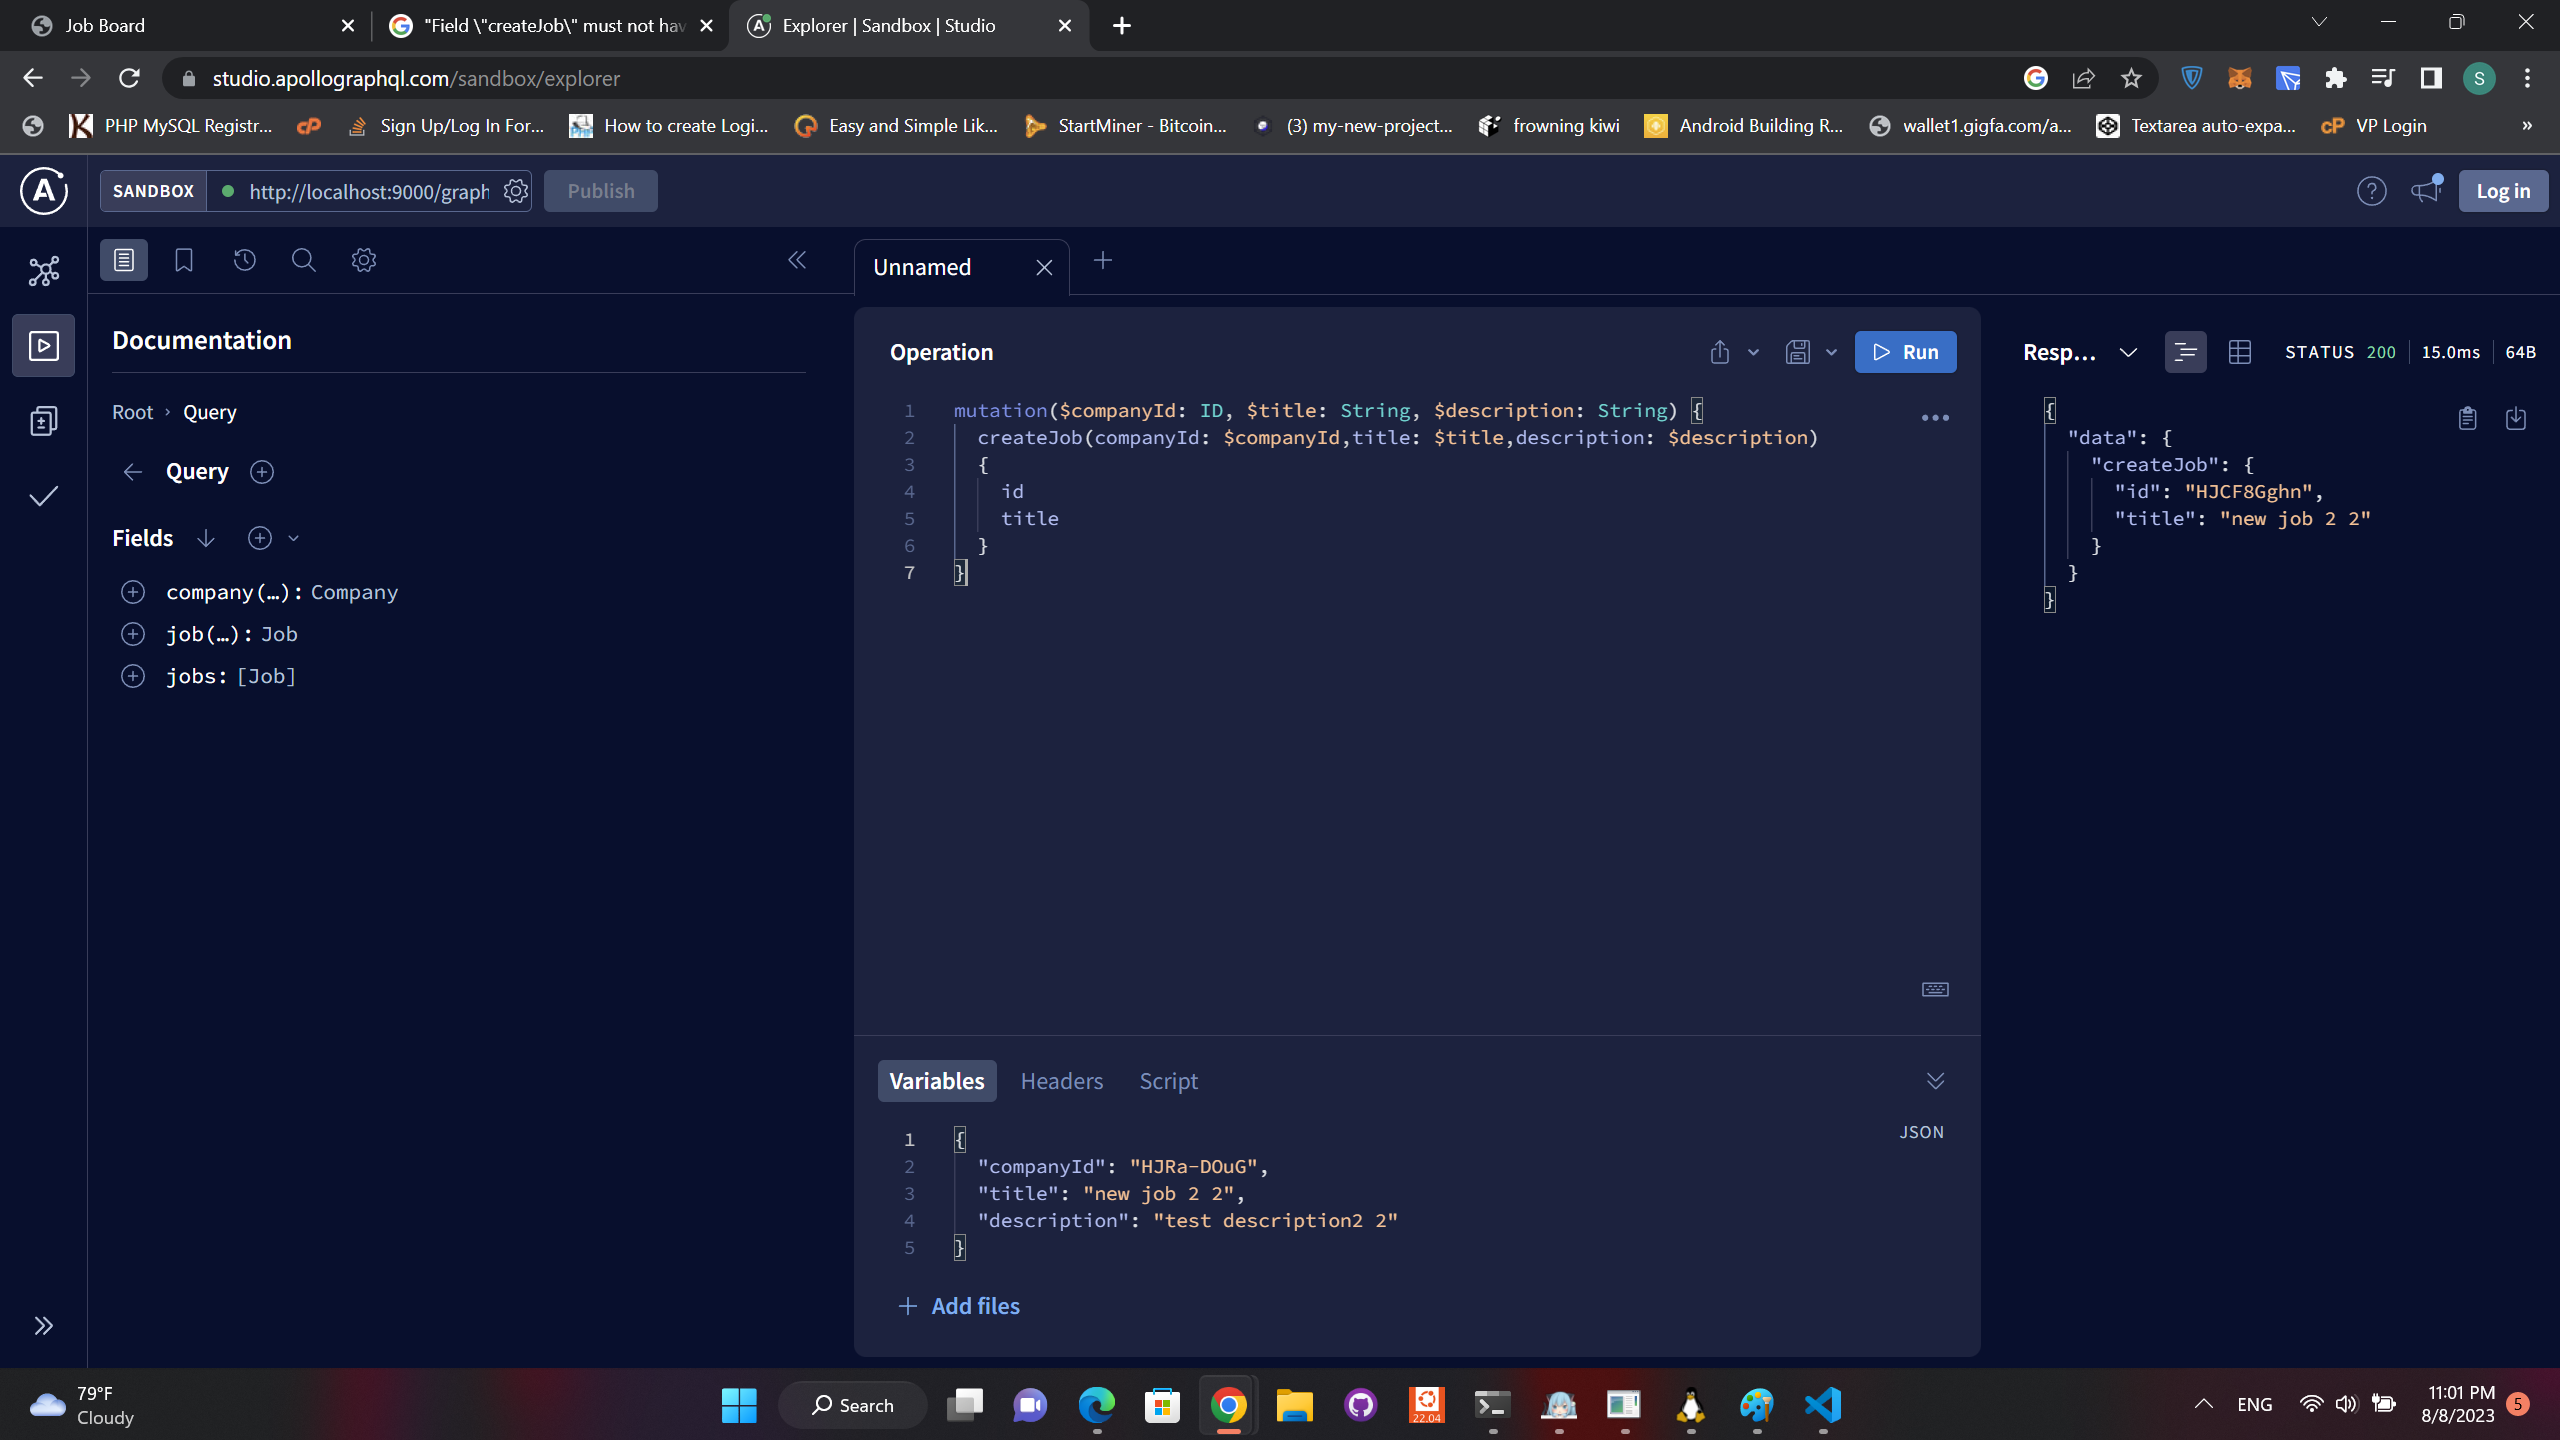
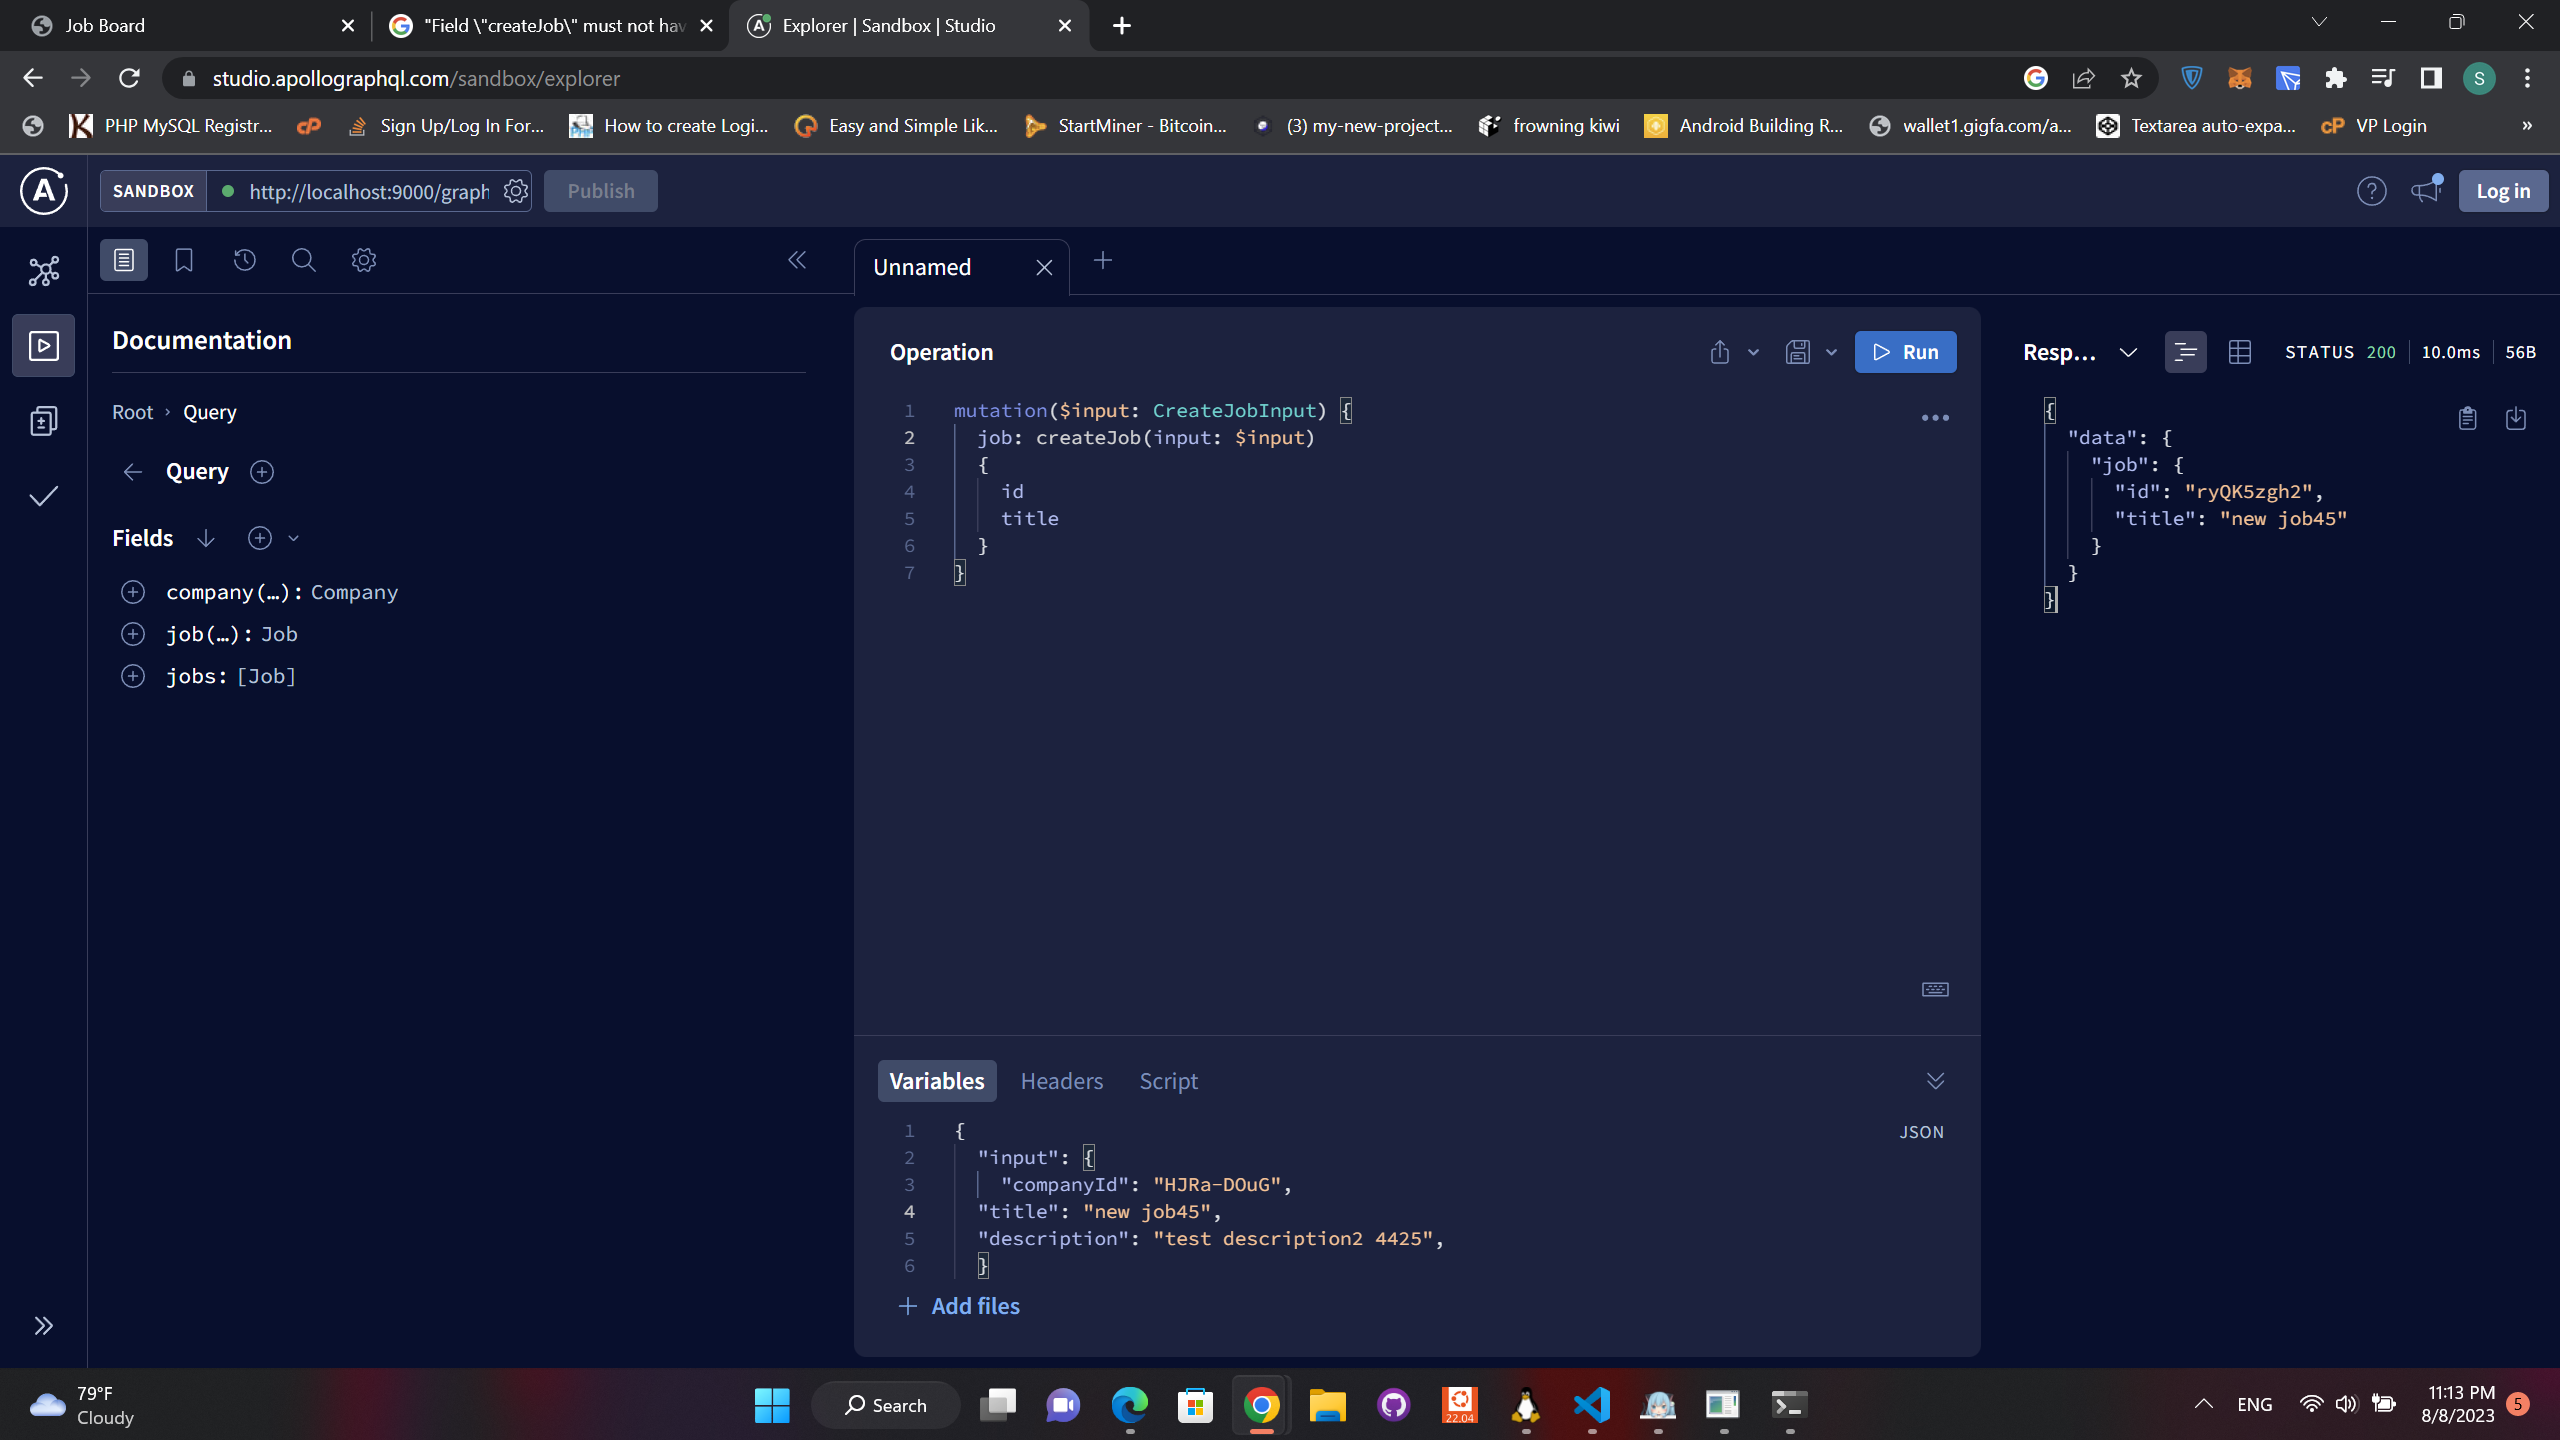
mutation basic with input with helper

diff --git a/server/resolvers.js b/server/resolvers.js
@@ -7,8 +7,8 @@ const Query = {
 };
 
 const Mutation = {
-    createJob: (root,{companyId,title, description}) => {
-        const id = db.jobs.create({companyId,title, description});
+    createJob: (root,{input}) => {
+        const id = db.jobs.create(input);
         return db.jobs.get(id);
     }
 };
